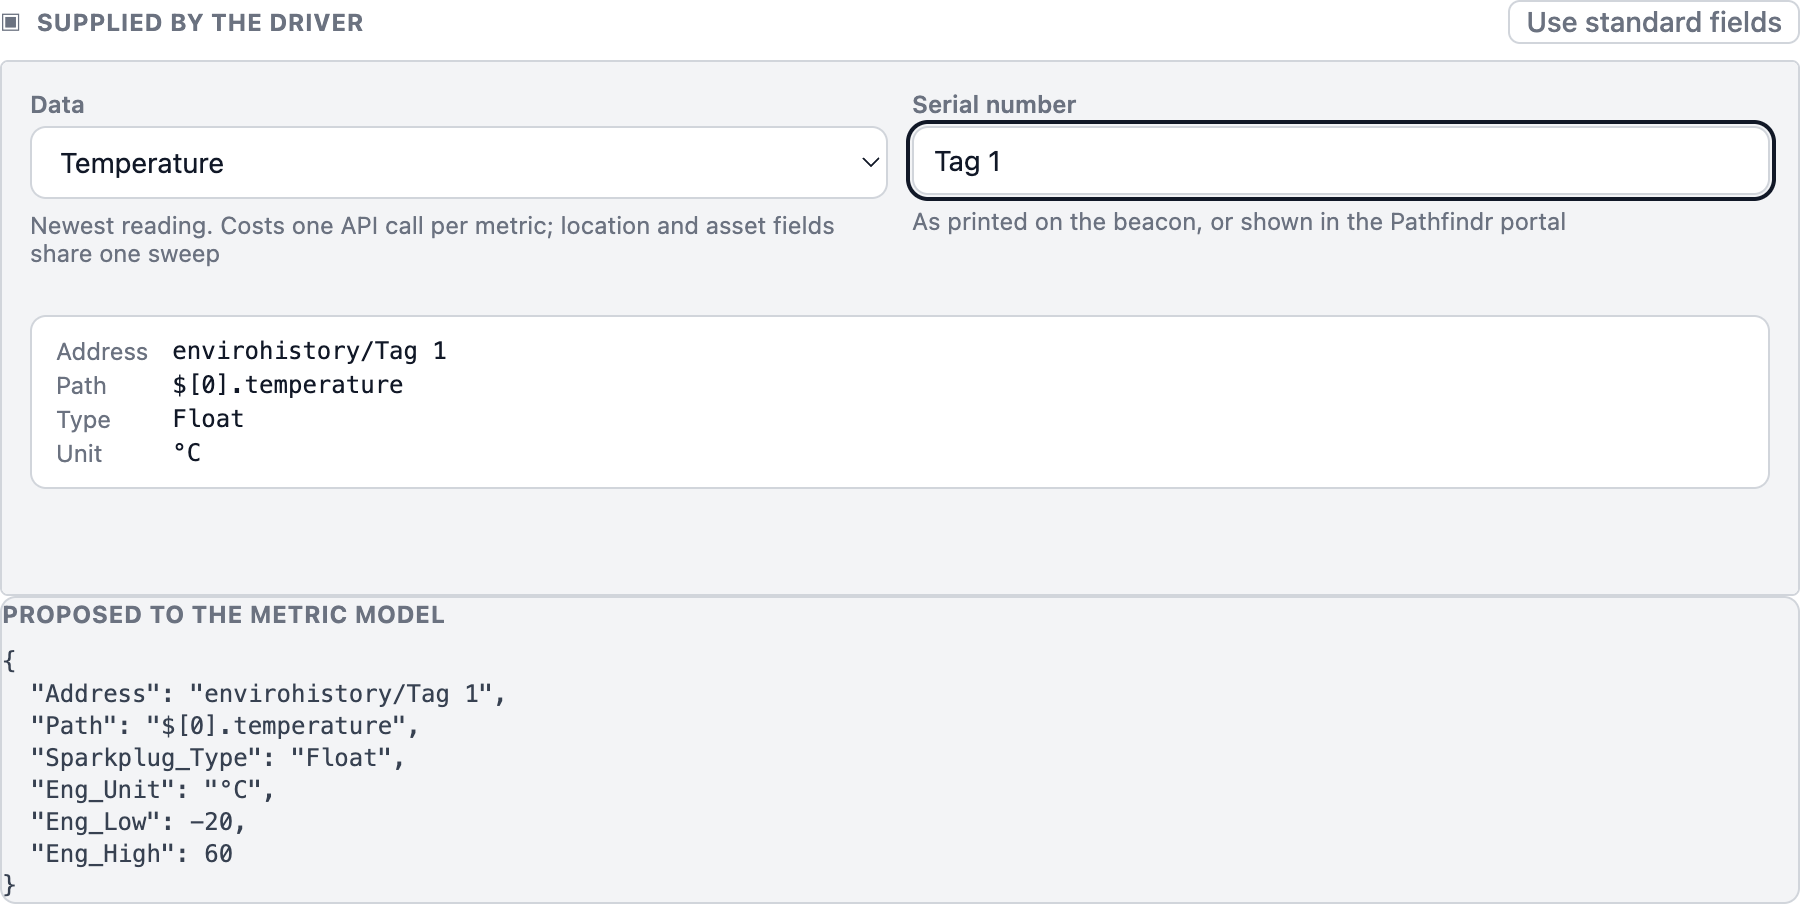
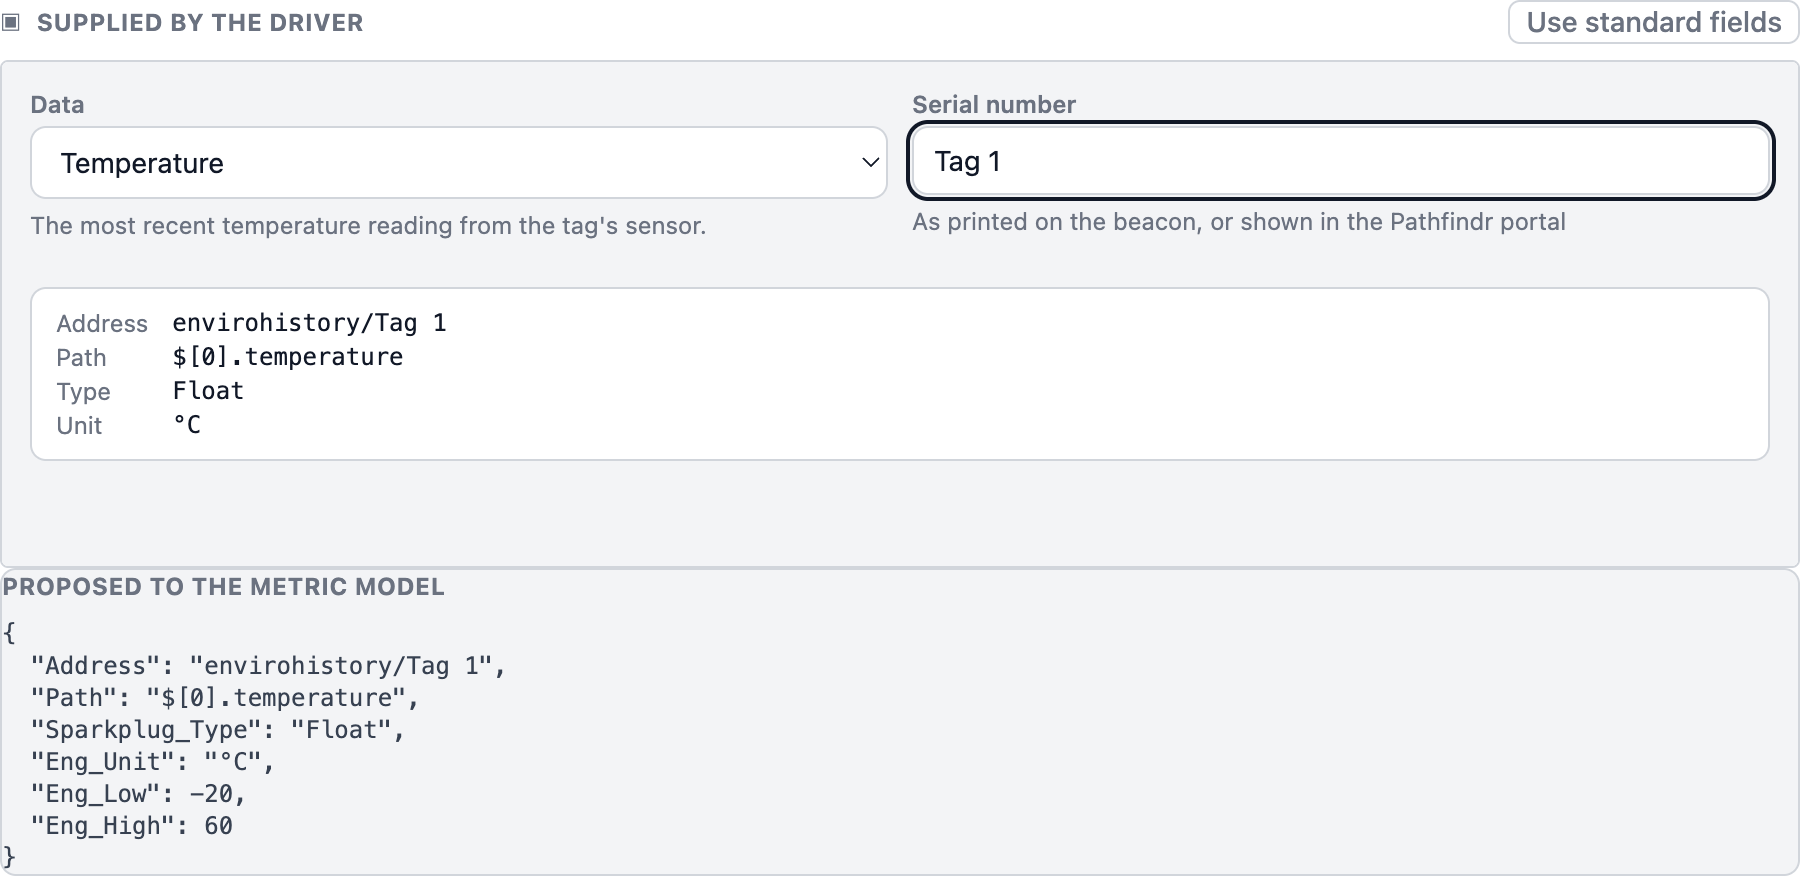
edge-pathfindr: hints describe the metric, not the plumbing
Reviewed every string in the panel through a copy audit.

The hints were talking about everything except the value the operator had
just selected. Some editorialised ("usually the most useful metric on a
tag"), some explained mechanism ("a flat beacon stops reporting everything
else"), most quoted API cost ("costs one API call per metric"), and one
described the format rather than the content ("human-readable, e.g. ...").
None of it answers the only question the hint is there to answer, which is
what this value is. The cost figures are already in the driver README
under the rate limit section, where someone sizing a connection will look
for them.

    - Usually the most useful metric on a tag: a flat beacon stops
      reporting everything else
    + The tag's current battery level, as a percentage.

Availability constraints stay, because they change whether the metric is
worth picking at all: "GPS trackers only" survives. A caveat about how
much we had verified does not, because the reader cannot act on our sample
size.

The larger defect was that only nine of twenty-four entries had a hint at
all, so picking Building or Status explained nothing. All twenty-four now
have one, written from the field values catalogued off a live tenant.

diff --git a/edge-pathfindr/ui/metric-panel.html b/edge-pathfindr/ui/metric-panel.html
@@ -105,91 +105,102 @@
     { id: "loc.zone",    group: "Location", label: "Zone",
       addr: function (s) { return "location/" + s },
       path: "$.location.location", types: STR,
-      hint: "The zone the asset was last seen in" },
+      hint: "The zone the asset was last seen in." },
     { id: "loc.building", group: "Location", label: "Building",
       addr: function (s) { return "location/" + s },
-      path: "$.location.building", types: STR },
+      path: "$.location.building", types: STR,
+      hint: "The building the asset was last seen in." },
     { id: "loc.desc",    group: "Location", label: "Location description",
       addr: function (s) { return "location/" + s },
-      path: "$.location.description", types: STR },
+      path: "$.location.description", types: STR,
+      hint: "Pathfindr's description of the asset's last known location." },
     { id: "loc.conf",    group: "Location", label: "Location confidence",
       addr: function (s) { return "location/" + s },
-      path: "$.confidence", types: INT, unit: "%", low: 0, high: 100 },
+      path: "$.confidence", types: INT, unit: "%", low: 0, high: 100,
+      hint: "How confident Pathfindr is in the reported location, as a percentage." },
     { id: "loc.seen",    group: "Location", label: "Last seen",
       addr: function (s) { return "location/" + s },
-      path: "$.lastseen", types: STR },
+      path: "$.lastseen", types: STR,
+      hint: "When the asset was last detected." },
     { id: "loc.timeat",  group: "Location", label: "Time at location",
       addr: function (s) { return "location/" + s },
       path: "$.time_at_location_calc", types: STR,
-      hint: "Human-readable, e.g. \"5days 8hrs 26mins\"" },
+      hint: "How long the asset has been at its current location." },
     { id: "loc.business", group: "Location", label: "Business",
       addr: function (s) { return "location/" + s },
-      path: "$.location.businessname", types: STR },
-
+      path: "$.location.businessname", types: STR,
+      hint: "The business area the asset's location belongs to." },
     { id: "bcn.battery", group: "Condition", label: "Beacon battery",
       addr: function (s) { return "beacon/" + s },
       path: "$.battery", types: INT, unit: "%", low: 0, high: 100,
-      hint: "Usually the most useful metric on a tag: a flat beacon stops reporting everything else" },
+      hint: "The tag's current battery level, as a percentage." },
     { id: "bcn.beat",    group: "Condition", label: "Beacon last heartbeat",
       addr: function (s) { return "beacon/" + s },
-      path: "$.last_heartbeat", types: STR },
+      path: "$.last_heartbeat", types: STR,
+      hint: "When the tag last reported in." },
     { id: "env.temp",    group: "Condition", label: "Temperature",
       addr: function (s) { return "envirohistory/" + s },
       path: "$[0].temperature", types: NUM,
       unit: "°C", low: -20, high: 60,
-      hint: "Newest reading. Costs one API call per metric; location and asset fields share one sweep" },
+      hint: "The most recent temperature reading from the tag's sensor." },
     { id: "env.hum",     group: "Condition", label: "Humidity",
       addr: function (s) { return "envirohistory/" + s },
       path: "$[0].humidity", types: NUM, unit: "%", low: 0, high: 100,
-      hint: "Newest reading. Costs one API call per metric" },
+      hint: "The most recent humidity reading from the tag's sensor." },
     { id: "impact.last", group: "Condition", label: "Latest impact",
       addr: function (s) { return "impacthistory/" + s },
       path: "$[0].impact", types: INT,
-      hint: "Newest reading. Costs one API call per metric" },
+      hint: "The size of the most recent impact detected by the tag." },
     { id: "fluid.pct",   group: "Condition", label: "Fluid level",
       addr: function (s) { return "fluid/" + s },
       path: "$.reading_percent", types: NUM, unit: "%", low: 0, high: 100,
-      hint: "Documented but not seen on a live tenant; check it returns data before relying on it" },
+      hint: "The most recent fluid level reading, as a percentage." },
 
     { id: "act.mins",    group: "Runtime", label: "Activity duration",
       addr: function (s) { return "activity/" + s },
-      path: "$.activity_duration_frame", types: INT, unit: "min", low: 0 },
+      path: "$.activity_duration_frame", types: INT, unit: "min", low: 0,
+      hint: "How long the asset has been active, in minutes." },
     { id: "act.secs",    group: "Runtime", label: "Activity duration (seconds)",
       addr: function (s) { return "activity/" + s },
-      path: "$.activity_duration_seconds_frame", types: INT, unit: "s", low: 0 },
+      path: "$.activity_duration_seconds_frame", types: INT, unit: "s", low: 0,
+      hint: "How long the asset has been active, in seconds." },
     { id: "act.last",    group: "Runtime", label: "Last activity event",
       addr: function (s) { return "activity/" + s },
-      path: "$.runtime_last_event", types: STR },
+      path: "$.runtime_last_event", types: STR,
+      hint: "When the asset was last active." },
     { id: "rt.total",    group: "Runtime", label: "Runtime hours (total)",
       addr: function (s) { return "runtime/" + s },
       path: "$.runtime_duration_total", types: STR,
-      hint: "GPS trackers only. A plain BLE tag returns invalid_gps_tracker and this metric stays empty" },
+      hint: "Total running time, as HH:MM:SS. GPS trackers only." },
     { id: "rt.batv",     group: "Runtime", label: "Tracker battery voltage",
       addr: function (s) { return "runtime/" + s },
       path: "$.battery_v", types: NUM, unit: "V", low: 0, high: 5,
-      hint: "GPS trackers only. For a BLE tag use Condition, Beacon battery" },
+      hint: "The GPS tracker's battery voltage. BLE tags report Beacon battery instead." },
 
     { id: "attr",        group: "Asset", label: "Custom attribute",
       addr: function (s) { return "attrs/" + s },
       path: null, types: STR, extra: "Attribute name",
-      hint: "A site-defined field, named exactly as Pathfindr shows it" },
+      hint: "A site-defined field from the asset's record in Pathfindr." },
     { id: "asset.part",  group: "Asset", label: "Part number",
       addr: function (s) { return "assets/" + s },
-      path: "$.partno", types: STR },
+      path: "$.partno", types: STR,
+      hint: "The part number the asset was launched with." },
     { id: "asset.status", group: "Asset", label: "Status",
       addr: function (s) { return "assets/" + s },
-      path: "$.status", types: STR },
-
+      path: "$.status", types: STR,
+      hint: "The asset's lifecycle status in Pathfindr." },
     { id: "bld.name",    group: "Site", label: "Building name",
       ident: "id", addr: function (s) { return "buildings/" + s },
-      path: "$.name", types: STR },
+      path: "$.name", types: STR,
+      hint: "The building's name in Pathfindr." },
     { id: "bld.site",    group: "Site", label: "Building site",
       ident: "id", addr: function (s) { return "buildings/" + s },
-      path: "$.site", types: STR },
+      path: "$.site", types: STR,
+      hint: "The site the building belongs to." },
     { id: "cell.zones",  group: "Site", label: "Zones in a cell",
       ident: "id", addr: function (s) { return "cells/" + s + "/zones" },
       path: "$", types: STR,
-      hint: "The whole zone list, as JSON" }
+      hint: "Every zone in the cell, as JSON." }
   ];
 
   var el = function (id) { return document.getElementById(id) };
@@ -273,11 +284,11 @@
     var problems = [];
     if (!ident) problems.push("Enter a " + (wantsId ? "Pathfindr ID" : "serial number") + ".");
     if (wantsId && ident && !/^[0-9]+$/.test(ident))
-      problems.push("The Pathfindr ID is a number.");
+      problems.push("The Pathfindr ID must be a number.");
     if (!wantsId && /[\/?#&]/.test(ident))
       problems.push("A serial number cannot contain / ? # or &.");
     if (item.extra && !extra) problems.push("Enter the attribute name.");
-    if (!type) problems.push("This metric does not allow a suitable Sparkplug type.");
+    if (!type) problems.push("No suitable Sparkplug type is allowed for this metric.");
 
     var warn = el("warn");
     warn.textContent = problems.join(" ");
